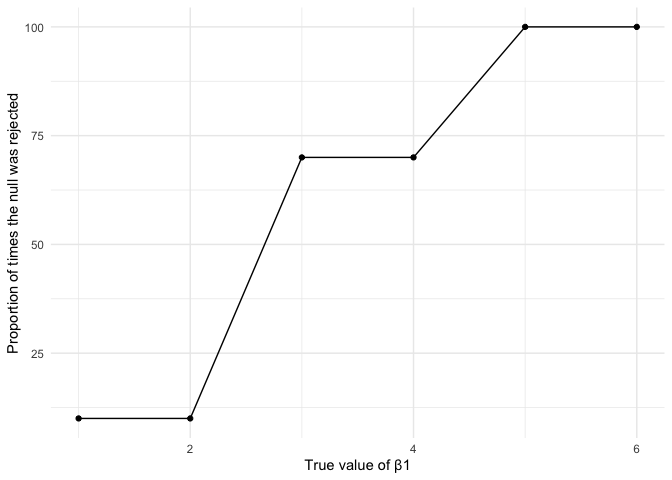
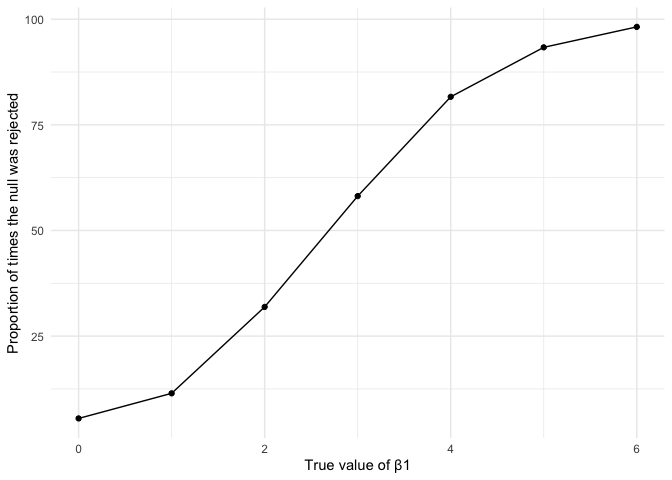
increasing datasets to 10000

diff --git a/p8105_hw5_mk4208.md b/p8105_hw5_mk4208.md
@@ -140,7 +140,7 @@ The following code chunk generates 10000 datasets using the
 
 ``` r
 sim_results = tibble(beta_1 = c(0, 1, 2, 3, 4, 5, 6)) %>% 
-  mutate(output_lists = map(.x = beta_1, ~rerun(10, sim_regression(beta1 = .x))),
+  mutate(output_lists = map(.x = beta_1, ~rerun(10000, sim_regression(beta1 = .x))),
          estimate_dfs = map(output_lists, bind_rows)) %>%
   select(-output_lists) %>%
   unnest(estimate_dfs)
@@ -169,16 +169,16 @@ sim_results %>%
 
 ![](p8105_hw5_mk4208_files/figure-gfm/unnamed-chunk-10-1.png)<!-- -->
 
-The following plots shows the average estimate of β1 estimate on the
-y-axis and the true value of β1 on the x-axis. The second plot shows the
-average estimate of β1 estimate **only in samples for which the null was
-rejected** on the y-axis and the true value of β1 on the x-axis.
+The following plots shows the average estimate of β1 on the y-axis and
+the true value of β1 on the x-axis. The second plot shows the average
+estimate of β1 **only in samples for which the null was rejected** on
+the y-axis and the true value of β1 on the x-axis.
 
-Based on this, we can see that the sample average of β1 estimate across
-the tests for which the null is rejected is not equal to the true value
-of β1. This is because as the effect size increases, power also
-increase. Hence, we can see that the sample beta deviates from the true
-beta among the samples for which the null was rejected.
+Based on this, we can see that the average estimate of β1 across the
+tests for which the null is rejected is not equal to the true value of
+β1. This is because as the effect size increases, power also increase.
+Hence, we can see that the β1 estimate deviates from the true value of
+β1 among the samples for which the null was rejected.
 
 ``` r
 p1 = sim_results %>% 
